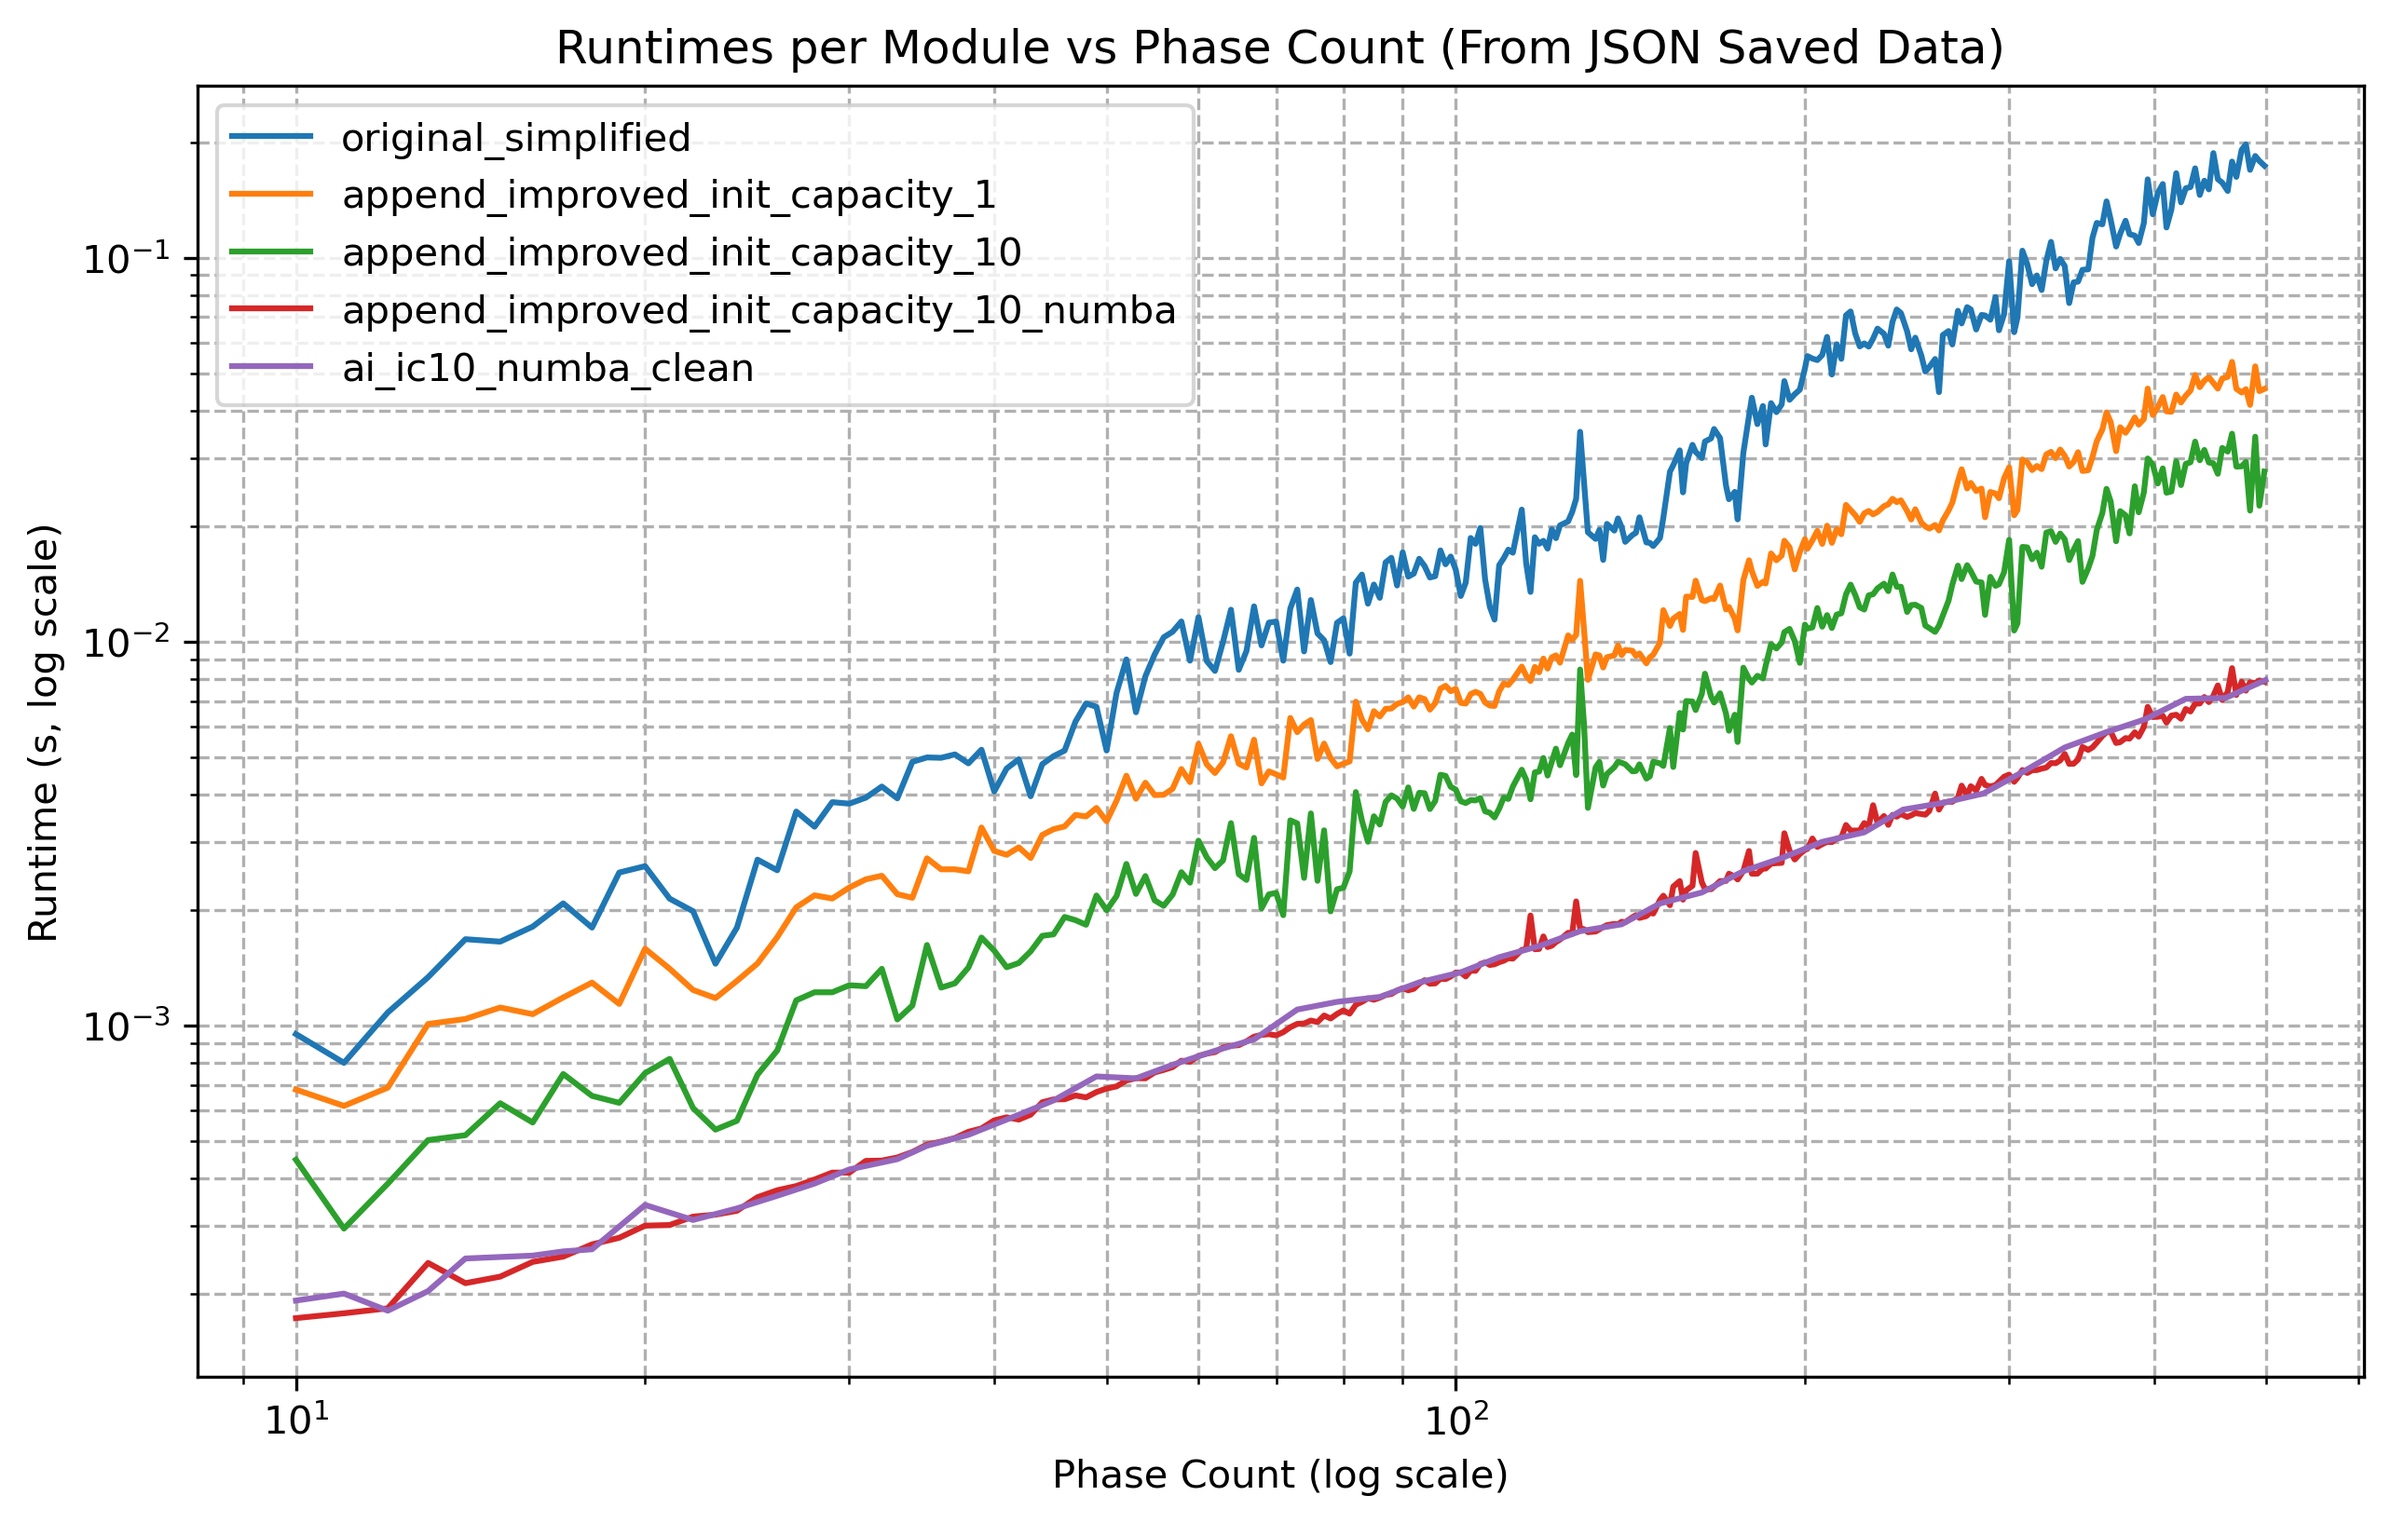
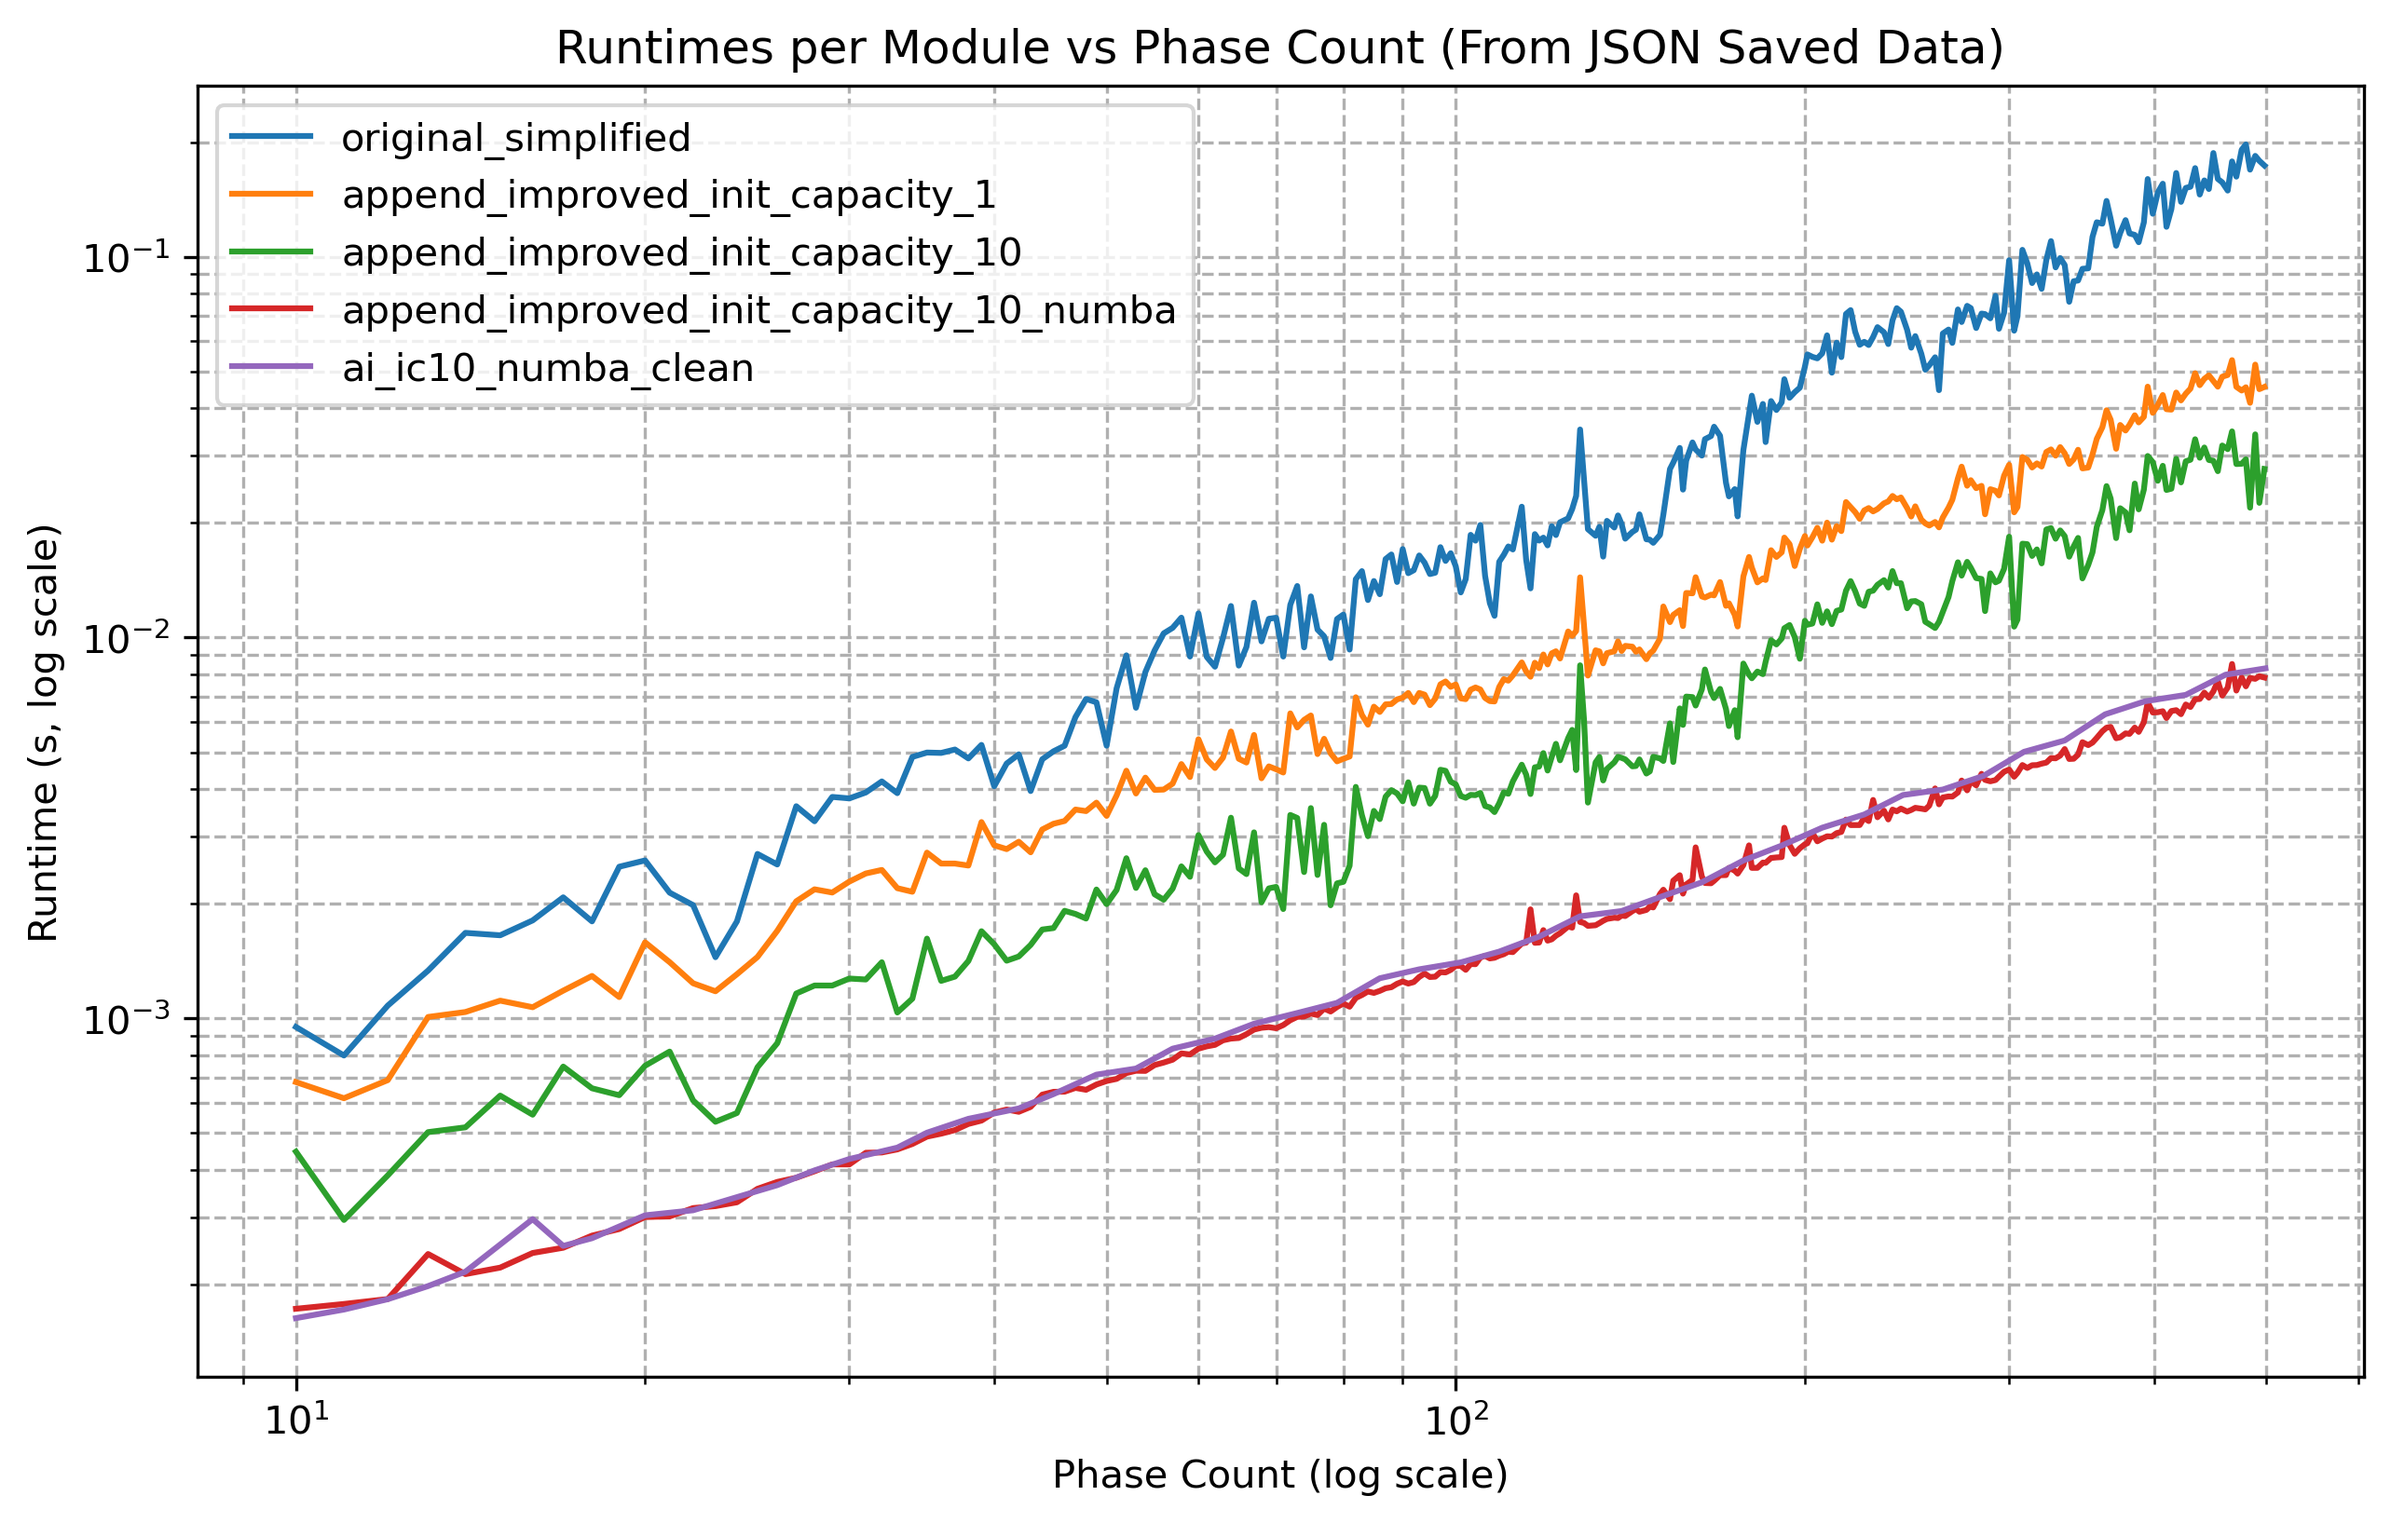
numba version with comments

Changed region(s): [[0.0312, 0.1872, 0.9977, 0.8734], [0.8418, 0.156, 0.873, 0.1872]]

diff --git a/versions/ai_ic10_numba_clean/effective_energy_shift.py b/versions/ai_ic10_numba_clean/effective_energy_shift.py
@@ -96,24 +96,31 @@ def balance_phases_njit(phases, is_unbalanced_array):
 
 
 @njit
-def calculate_virtual_excess(current_phase, next_phase):
+def calculate_virtual_excess(current_phases, next_phases):
     """
-    Erzeugt einen Virtual Excess
+    Erzeugt einen Virtual Excess pro current_phases + next_phases Paar
     Starthöhe ist max aus eigener Excess Starthöhe und Excess Endhöhe der nächsten Phase
     """
 
-    overflow_content = current_phase.energy_excess[current_phase.size_excess - 1]
-    overflow_start = current_phase.starts_excess[current_phase.size_excess - 1]
+    m = len(current_phases)
+    virtual_excess_starts = np.empty(m, dtype=np.float64)
+    virtual_excess_contents = np.empty(m, dtype=np.float64)
+    virtual_excess_ids = np.empty(m, dtype=np.int64)
 
-    blocking_excess_content = next_phase.energy_excess[next_phase.size_excess - 1]
-    blocking_excess_start = next_phase.starts_excess[next_phase.size_excess - 1]
-    blocking_excess_end = blocking_excess_start + blocking_excess_content
+    for i in range(m):
 
-    virtual_excess_start = max(overflow_start, blocking_excess_end)
-    virtual_excess_content = overflow_content
-    virtual_excess_id = current_phase.excess_ids[current_phase.size_excess - 1]
+        overflow_content = current_phases[i].energy_excess[current_phases[i].size_excess - 1]
+        overflow_start = current_phases[i].starts_excess[current_phases[i].size_excess - 1]
 
-    return virtual_excess_start, virtual_excess_content, virtual_excess_id
+        blocking_excess_content = next_phases[i].energy_excess[next_phases[i].size_excess - 1]
+        blocking_excess_start = next_phases[i].starts_excess[next_phases[i].size_excess - 1]
+        blocking_excess_end = blocking_excess_start + blocking_excess_content
+
+        virtual_excess_starts[i] = max(overflow_start, blocking_excess_end)
+        virtual_excess_contents[i] = overflow_content
+        virtual_excess_ids[i] = current_phases[i].excess_ids[current_phases[i].size_excess - 1]
+
+    return virtual_excess_starts, virtual_excess_contents, virtual_excess_ids
 
 
 @njit
@@ -147,34 +154,30 @@ def move_overflow_njit(phases, is_unbalanced_array):
         if is_unbalanced_array[0, i]:
             current_phases.append(phases[i])
 
-    #Speichert die Nachfolger aller unbalanced Excess Einträge in next_phases
+    # Speichert die Nachfolger aller unbalanced Excess Einträge in next_phases
     next_phases = List()
     for k in range(len(next_indices)):
         idx = next_indices[k]
         next_phases.append(phases[idx])
 
+    # Erstellt Listen aller Virtuellen Excess
     m = len(current_phases)
-    v_e_start_arr = np.empty(m, dtype=np.float64)
-    v_e_content_arr = np.empty(m, dtype=np.float64)
-    v_e_id_arr = np.empty(m, dtype=np.int64)
+    v_e_start_arr, v_e_content_arr, v_e_id_arr = calculate_virtual_excess(current_phases, next_phases)
 
-    for i in range(m):
-        v_e_start, v_e_content, v_e_id = calculate_virtual_excess(current_phases[i], next_phases[i])
-        v_e_start_arr[i] = v_e_start
-        v_e_content_arr[i] = v_e_content
-        v_e_id_arr[i] = v_e_id
-
+    # Füge die Überschüsse der aktuellen Phasen in den nächsten Phasen ein
     for i in range(m):
         next_phases[i].append_excess(v_e_start_arr[i], v_e_content_arr[i], False, v_e_id_arr[i])
 
+    # Lösche alte Excess Pakete die durch neue Excess Pakete in der nächsten Phase ersetzt wurden
     for i in range(n):
-        if is_unbalanced_array[0, i] and is_unbalanced_array_shifted [i]:
+        if is_unbalanced_array[0, i] and is_unbalanced_array_shifted[i]:
             phases[i].remove_excess(-2)
-        elif is_unbalanced_array[0, i] and not is_unbalanced_array_shifted [i]:
+        elif is_unbalanced_array[0, i] and not is_unbalanced_array_shifted[i]:
             phases[i].remove_excess(-1)
 
+    # Passe Maske an auf die neuen Werte
     for i in range(n):
-        is_unbalanced_array[0, i] = is_unbalanced_array_shifted [i]
+        is_unbalanced_array[0, i] = is_unbalanced_array_shifted[i]
 
     return phases, is_unbalanced_array
 
